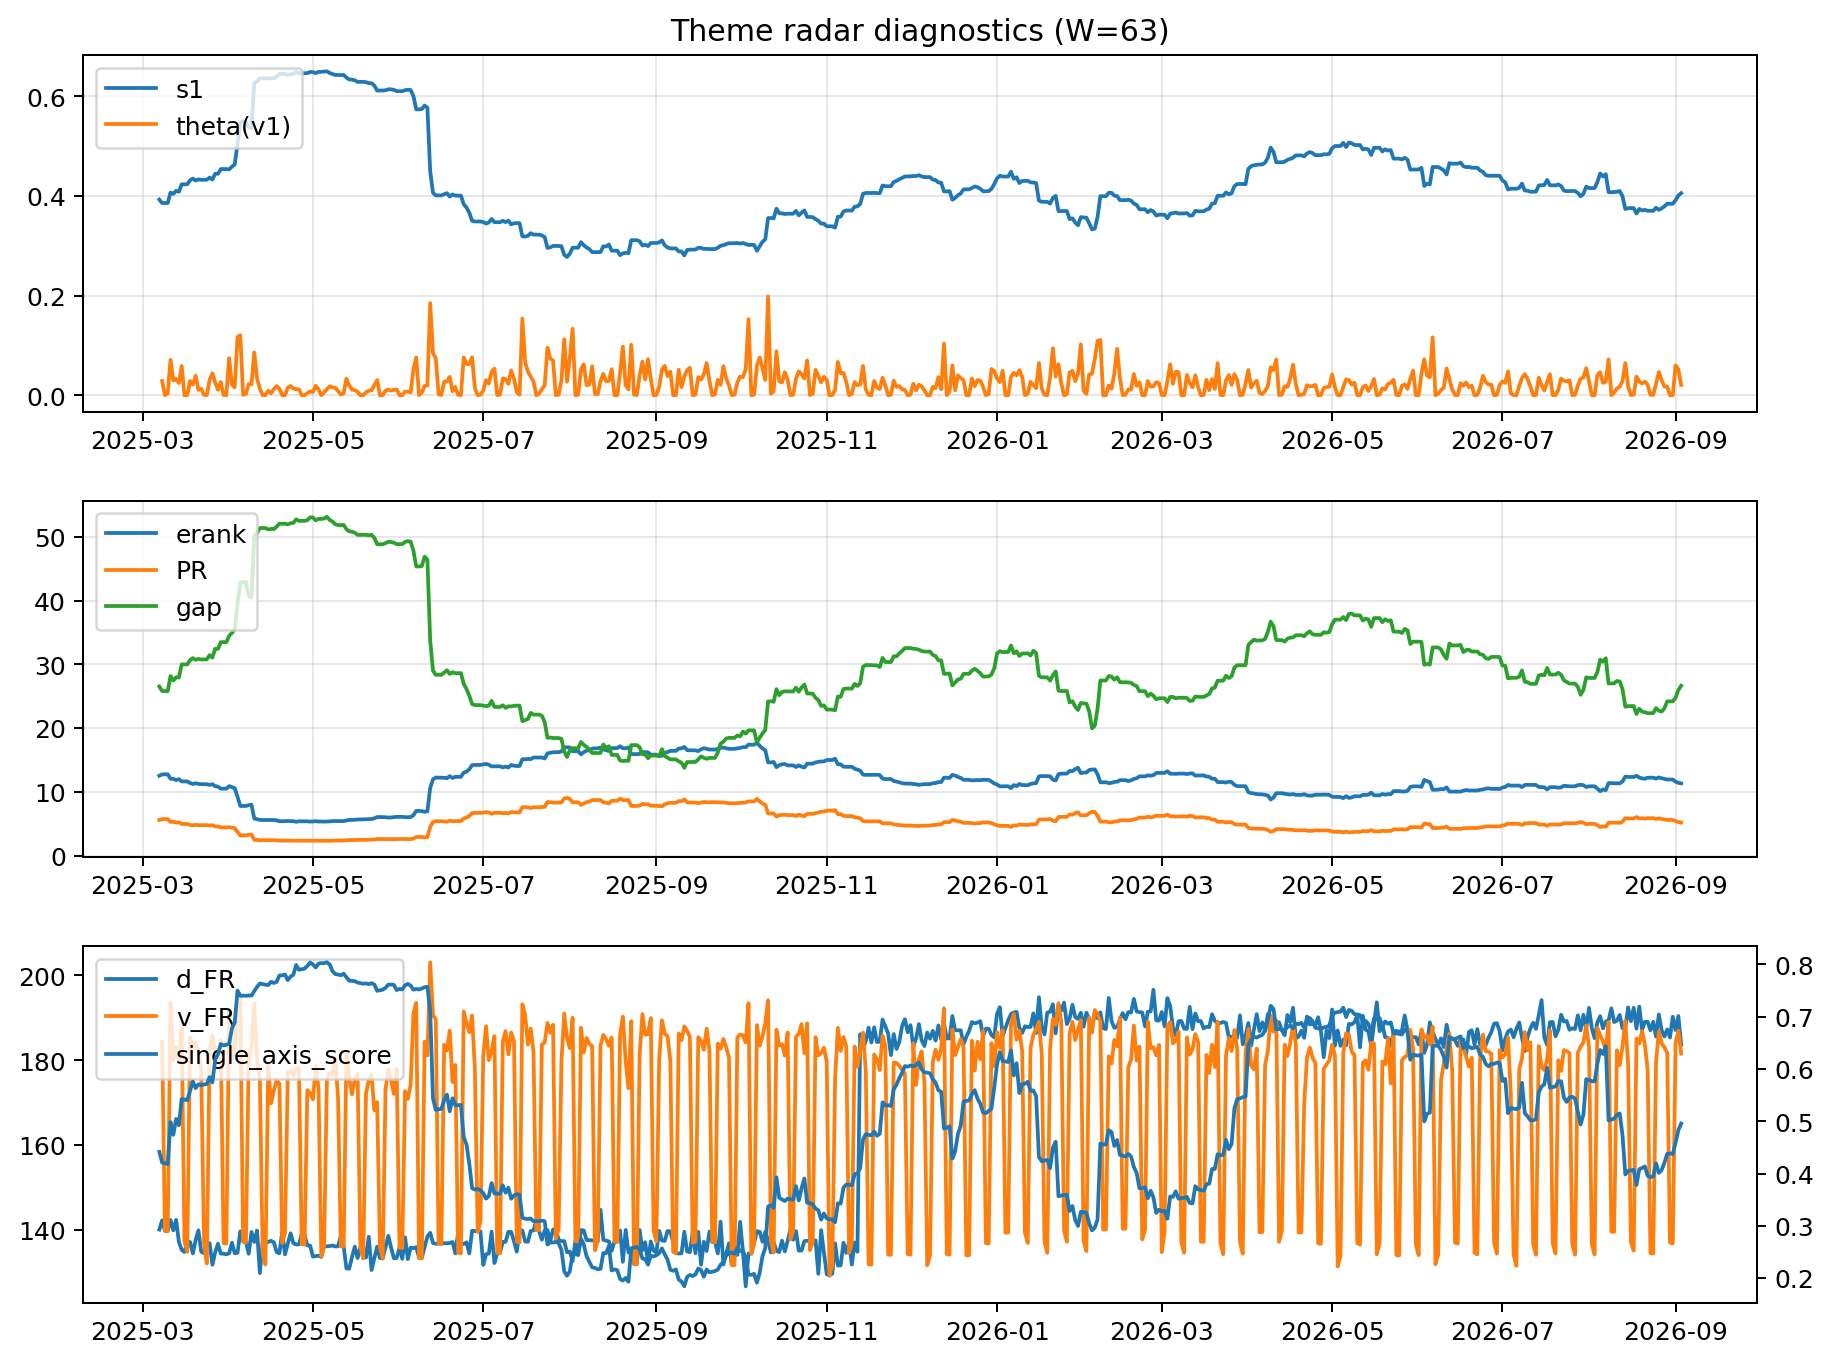
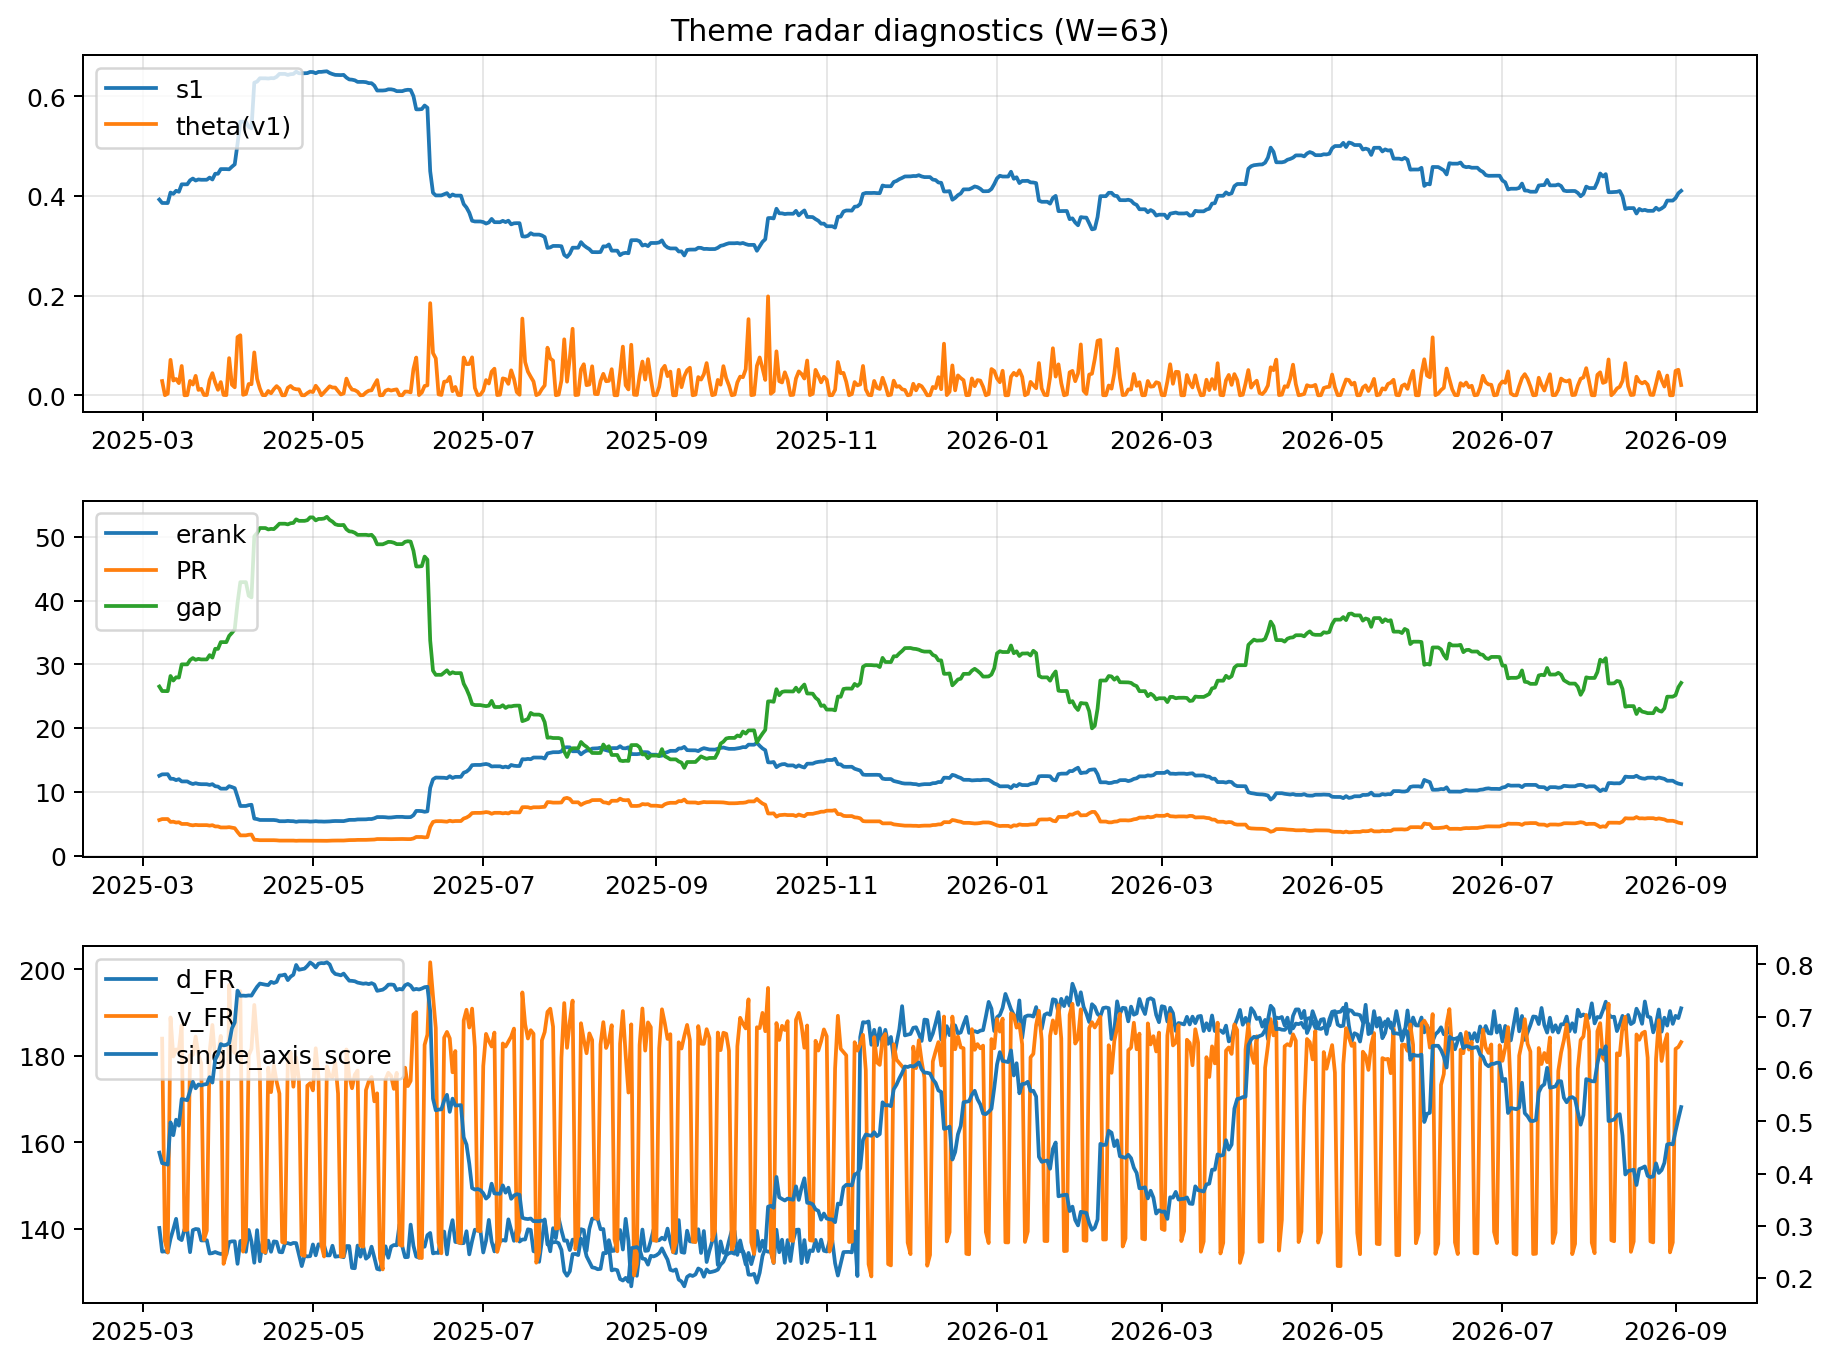
log: 2026-09-03 | sha256:a254fcec17a4bca2fba28f1b5ab3865852c153dfddc456e5bc7595e7a2197c65

diff --git a/logs/2026-09-03.md b/logs/2026-09-03.md
@@ -3,52 +3,52 @@
 ![diagnostic W63](../assets/diagnostic/2026-09-03_W63.png)
 
 ## Leaders (v1) — W=63
-- **Nuclear_Uranium** (0.0884904198457631)
-- Semis (0.0695480947841088)
-- Quantum (0.061842097781842)
+- **Nuclear_Uranium** (0.0894190483127222)
+- Semis (0.0703414032286912)
+- Quantum (0.0630812230208153)
 
 ## Challengers — W=63
-**v2:** Rates (0.0940029187414182), Semis (0.0787735229030892), Genomics_Bio (0.0743102366879871)
-**v3:** Crypto (0.096518033587274), Metals (0.0866134840008171), Genomics_Bio (0.0755552641295035)
+**v2:** Rates (0.0929150685227755), Semis (0.0770301585199068), Genomics_Bio (0.0747735207727632)
+**v3:** Crypto (0.0876986489833158), Genomics_Bio (0.0814069686611823), Metals (0.073377944197597)
 
 ## Migration (20D slope) — W=63
 **Top risers:**
-- axis_Rates: 0.0003966582506257
-- axis_Space: 0.0003808782725539
-- axis_Genomics_Bio: 0.000298690325636
-- axis_Commodities: 0.0002852215658221
-- axis_DataCenter_Infra: 0.0002058765267726
-- axis_Software_Cloud: 0.0001826551950345
-- axis_Drones_Autonomy: 0.0001605073680398
-- axis_Sector_Fin: 5.725298520444282e-05
-- axis_USD: 5.007042914214063e-05
-- axis_Sector_Materials: 4.5552313245607926e-05
+- axis_Rates: 0.0004426980430724
+- axis_Space: 0.0003722113570275
+- axis_Genomics_Bio: 0.0003196587428127
+- axis_DataCenter_Infra: 0.0002629444416402
+- axis_Commodities: 0.0002184247414877
+- axis_Software_Cloud: 0.0001948448499134
+- axis_Drones_Autonomy: 0.0001531006860248
+- axis_USD: 6.876156523990377e-05
+- axis_Cyber: 5.198131006288427e-05
+- axis_Credit: 4.451155876779561e-05
 
 **Top fallers:**
-- axis_Equity_ExUS: -8.146348110139644e-05
-- axis_Sector_ConsStap: -9.220255077782204e-05
-- axis_Robotics: -9.386101383654918e-05
-- axis_Sector_RealEstate: -0.0001148987208759
-- axis_Critical_Minerals: -0.0001429291275555
-- axis_Grid_Power: -0.0001437513548837
-- axis_MegaCap_AI: -0.0001596082767569
-- axis_Sector_Health: -0.0002153476260417
-- axis_Semis: -0.00026951452655
-- axis_Crypto: -0.00034760898531
+- axis_Sector_ConsDisc: -0.0001064782531471
+- axis_Equity_ExUS: -0.0001081217954881
+- axis_Robotics: -0.0001107749294976
+- axis_Sector_RealEstate: -0.0001179917787393
+- axis_Critical_Minerals: -0.000156246841312
+- axis_Grid_Power: -0.0001573944572751
+- axis_Crypto: -0.0001606998363346
+- axis_MegaCap_AI: -0.000219659532611
+- axis_Sector_Health: -0.0002224511016167
+- axis_Semis: -0.0002581103844294
 
 ## Risk line (W=63)
-- s1: 0.4054231608372221
-- theta_v1: 0.0206847146437447
-- v_FR: 181.5538916587845
-- single_axis_score: 0.4956043956043956
+- s1: 0.4101176953373769
+- theta_v1: 0.020563651732099
+- v_FR: 183.1686343280221
+- single_axis_score: 0.5271062271062271
 
 ## Interpretation
 **Regime:** `theme_migration`
 
-- Action: Tomorrow watchlist: Rates, Space, Genomics_Bio, Commodities, DataCenter_Infra + v2_top1=Rates
+- Action: Tomorrow watchlist: Rates, Space, Genomics_Bio, DataCenter_Infra, Commodities + v2_top1=Rates
 - Action: Hedge note: normal correlation stability.
 
-- Percentiles (W=63 history): vfr_pct=0.54, theta_pct=0.52, s1_pct=0.46, score_pct=0.47.
+- Percentiles (W=63 history): vfr_pct=0.66, theta_pct=0.52, s1_pct=0.52, score_pct=0.53.
 
 ---
[2 lines of base64/hex data omitted]
